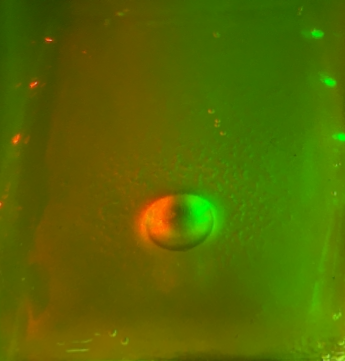
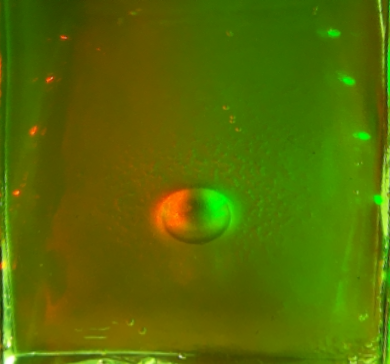
更新

diff --git a/load.py b/load.py
@@ -1,7 +1,7 @@
 import cv2
 import numpy as np
 
-def detect_sphere_imprint(base_path, sample_path, min_radius=5, max_radius=70):
+def detect_sphere_imprint(base_path, sample_path, min_radius=25, max_radius=45):
     """
     使用霍夫圓變換偵測球體壓痕
     :param image_path: 壓痕影像的路徑
@@ -18,11 +18,14 @@ def detect_sphere_imprint(base_path, sample_path, min_radius=5, max_radius=70):
     cv2.waitKey(0)
     cv2.destroyAllWindows()
     # 進行高斯模糊，減少雜訊影響
-    gray_blurred = cv2.GaussianBlur(gray, (9,9), 1)
+    gray_blurred = cv2.GaussianBlur(gray, (9,9), 2)
 
     # 使用霍夫圓變換來偵測圓形壓痕
-    circles = cv2.HoughCircles(gray_blurred, cv2.HOUGH_GRADIENT, dp=1.2, minDist=20,
-                               param1=50, param2=30, minRadius=min_radius, maxRadius=max_radius)
+    # miniDist:
+    # param1: canny thershold
+    # param2: hough 累積的 thershold 越小檢測到的圓越多
+    circles = cv2.HoughCircles(gray_blurred, cv2.HOUGH_GRADIENT, dp=1.2, minDist=100,
+                               param1=15, param2=20, minRadius=min_radius, maxRadius=max_radius)
     if circles is not None:
         circles = np.uint16(np.around(circles))
         best_circle = max(circles[0, :], key=lambda c: c[2])  # 取半徑最大的圓
@@ -53,7 +56,7 @@ def compute_surface_gradients(cx, cy, r, img_shape):
     :return: 梯度場 (Gx, Gy) 和球體遮罩 mask
     """
     H, W = img_shape[:2]
-    X, Y = np.meshgrid(np.arange(W) - cx, np.arange(H) - cy)
+    X, Y = np.meshgrid(np.arange(W) , np.arange(H) )
 
     # 計算球體 Z 值，確保 Z > 0（半圓球區域）
     Z = np.sqrt(np.maximum(r**2 - X**2 - Y**2, 0) + 1e-6)  # 避免 sqrt 負數
@@ -92,26 +95,26 @@ def create_rgb2gradient_dataset(base_path, sample_path):
     # 偵測球體
     cx, cy, r = detect_sphere_imprint(base_path, sample_path)
 
-    # 計算梯度，只取半圓球內部
+    # # 計算梯度，只取半圓球內部
     Gx, Gy, mask = compute_surface_gradients(cx, cy, r, img.shape)
 
-    # 建立數據集（只儲存半圓球區域）
-    dataset = []
-    for i in range(img.shape[0]):
-        for j in range(img.shape[1]):
-            if mask[i, j]:  # 只儲存半圓球內部的數據
-                dataset.append([img_rgb[i, j, 0], img_rgb[i, j, 1], img_rgb[i, j, 2], Gx[i, j], Gy[i, j]])
+    # # 建立數據集（只儲存半圓球區域）
+    # dataset = []
+    # for i in range(img.shape[0]):
+    #     for j in range(img.shape[1]):
+    #         if mask[i, j]:  # 只儲存半圓球內部的數據
+    #             dataset.append([img_rgb[i, j, 0], img_rgb[i, j, 1], img_rgb[i, j, 2], Gx[i, j], Gy[i, j]])
 
-    dataset = np.array(dataset)
+    # dataset = np.array(dataset)
 
     # 儲存數據集
-    np.save("gradient_dataset.npy", dataset)
-    print("已儲存數據集：gradient_dataset.npy")
-    return dataset
+    # np.save("gradient_dataset.npy", dataset)
+    # print("已儲存數據集：gradient_dataset.npy")
+    # return dataset
 
 # 設定影像路徑
-base_path = "./imprint/al/cropped/img0_base.png"  # 替換為你的壓痕影像
-sample_path = "./imprint/al/cropped/img3.png" 
+base_path = "./trasform_img0_base.png"  # 替換為你的壓痕影像
+sample_path = "./trasform_img2.png" 
 
 # 產生 RGB 對應梯度的數據集
 dataset = create_rgb2gradient_dataset(base_path, sample_path)

diff --git a/PerspectiveTransform.py b/PerspectiveTransform.py
@@ -24,10 +24,10 @@ def cal_perspective_params(img, points):
     return M, warped_img
 
 if __name__ == '__main__':
-    img = cv2.imread('./imprint/al/img0.png')
-    points = np.array([(147,0),(492,0),(458,360),(197,345)])
+    img = cv2.imread('./imprint/al/img4.png')
+    points = np.array([(130,0),(520,0),(470,360),(185,360)])
     M, transform_img = cal_perspective_params(img, points)
     cv2.imshow('img',img)
-    cv2.imshow('trasform_img',transform_img)
-    cv2.imwrite('trasform_img0.png',transform_img)
+    cv2.imshow('trasform_img0',transform_img)
+    cv2.imwrite('trasform_img4.png',transform_img)
     cv2.waitKey(0)
